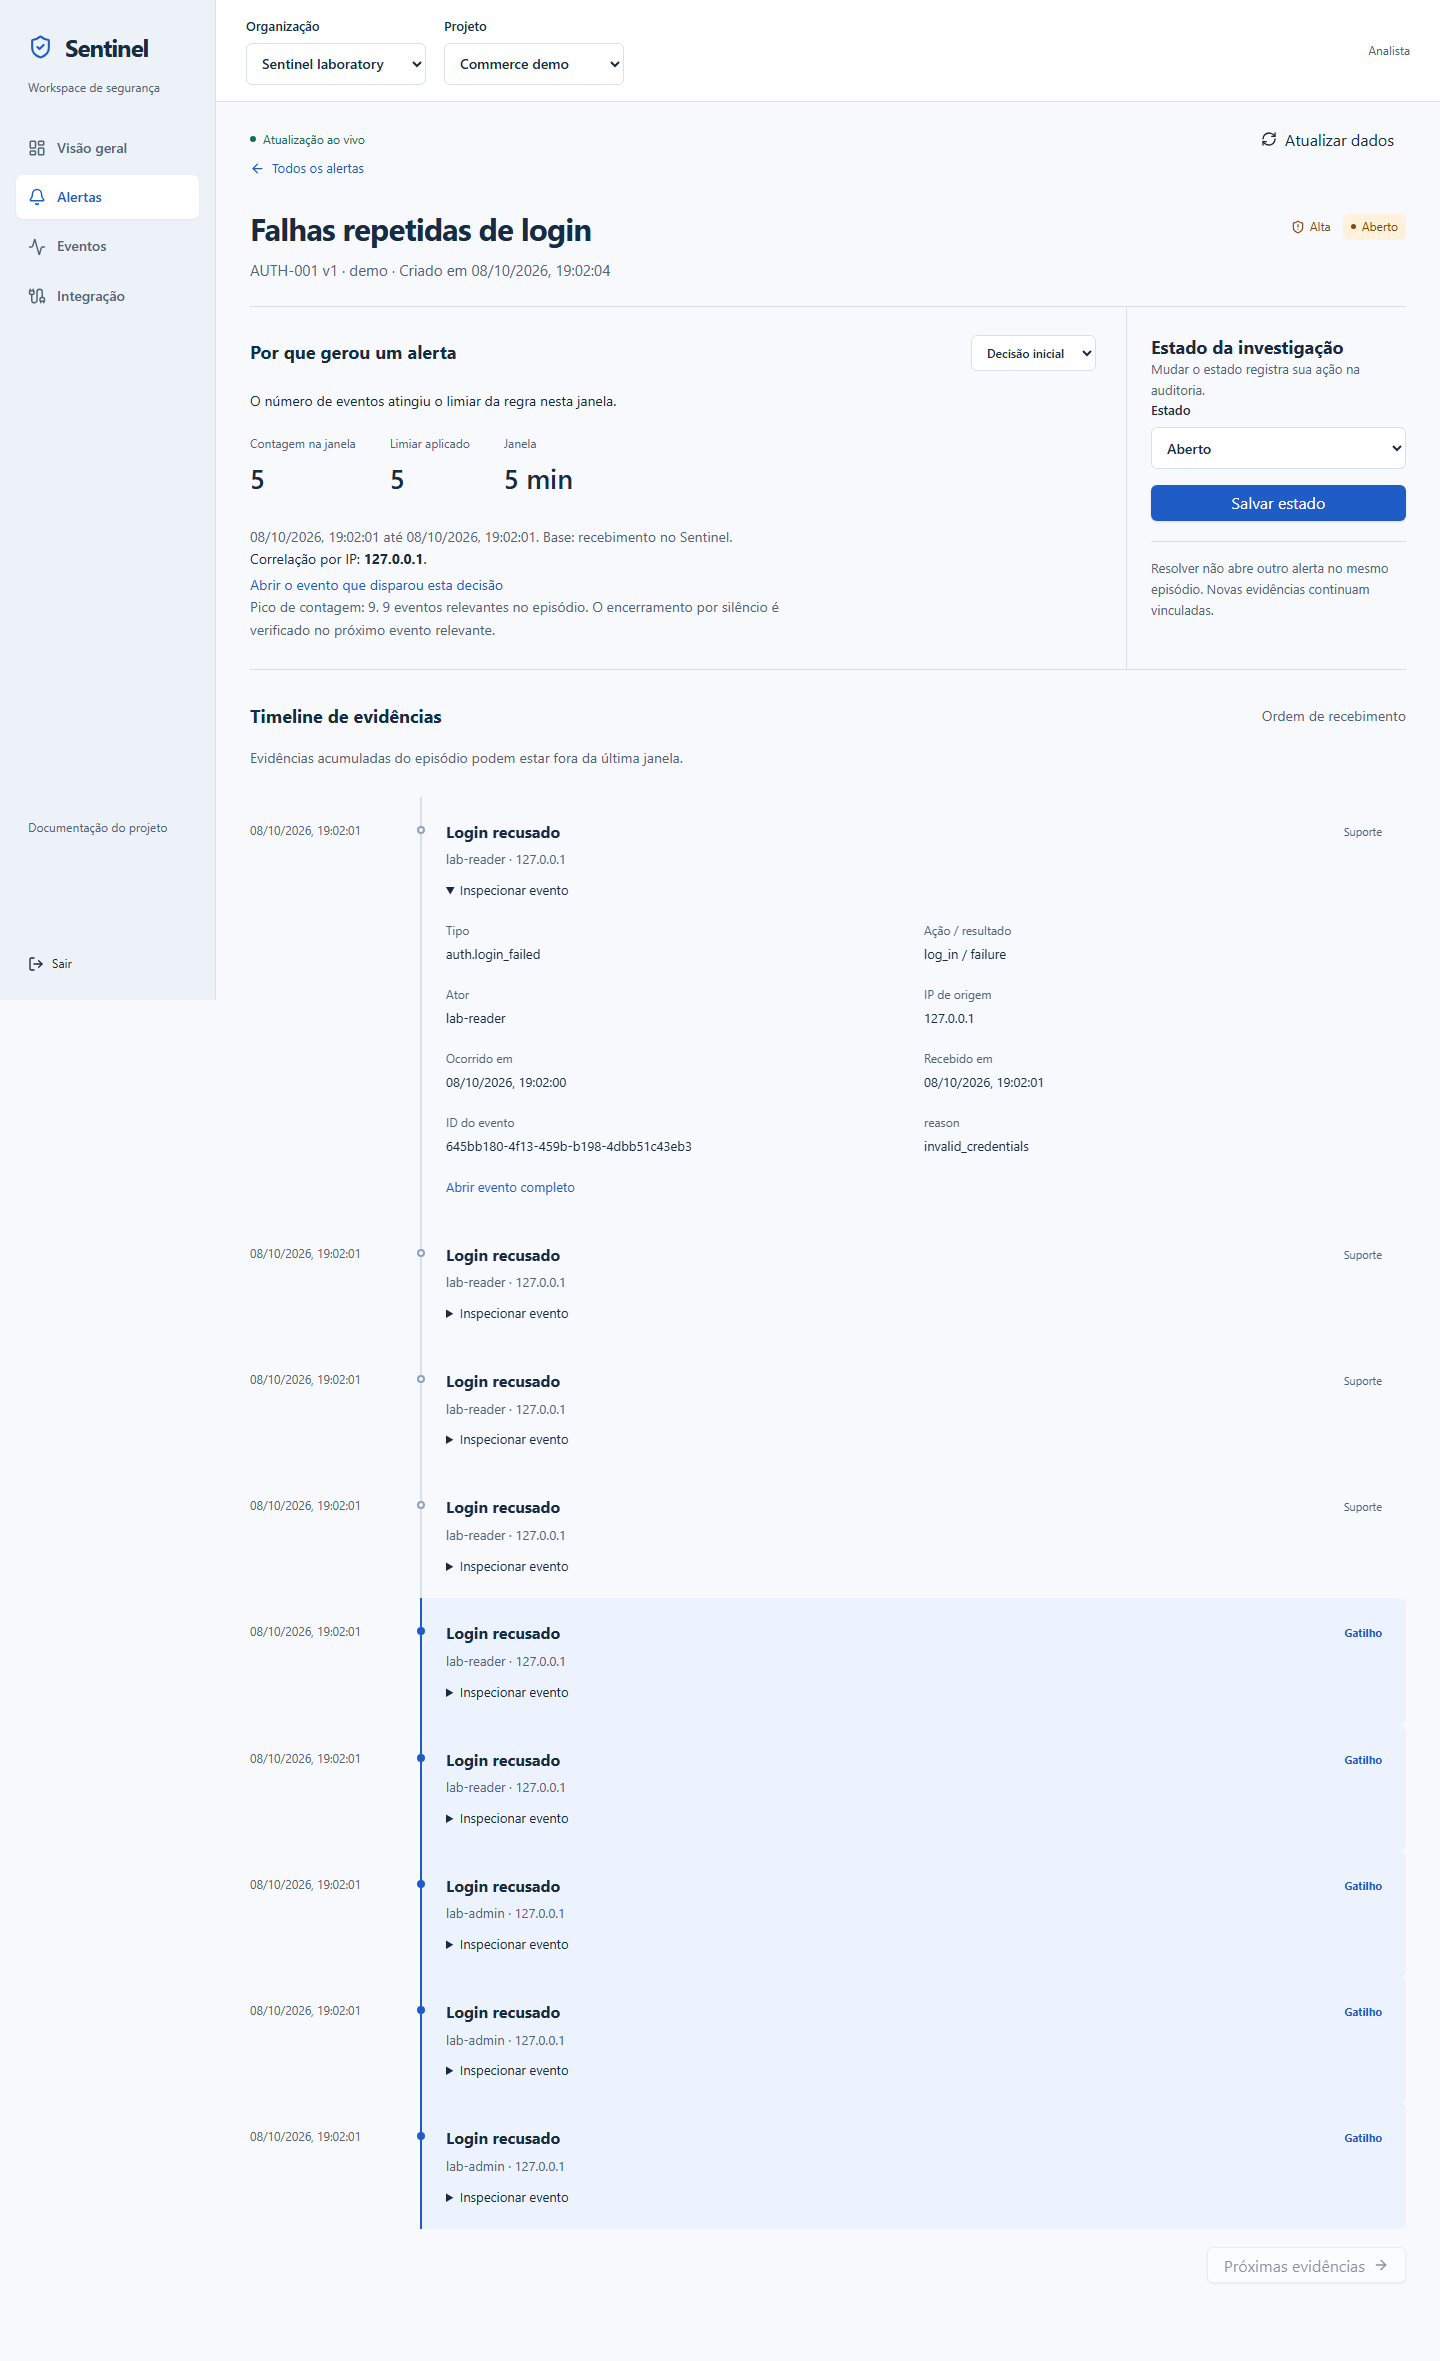
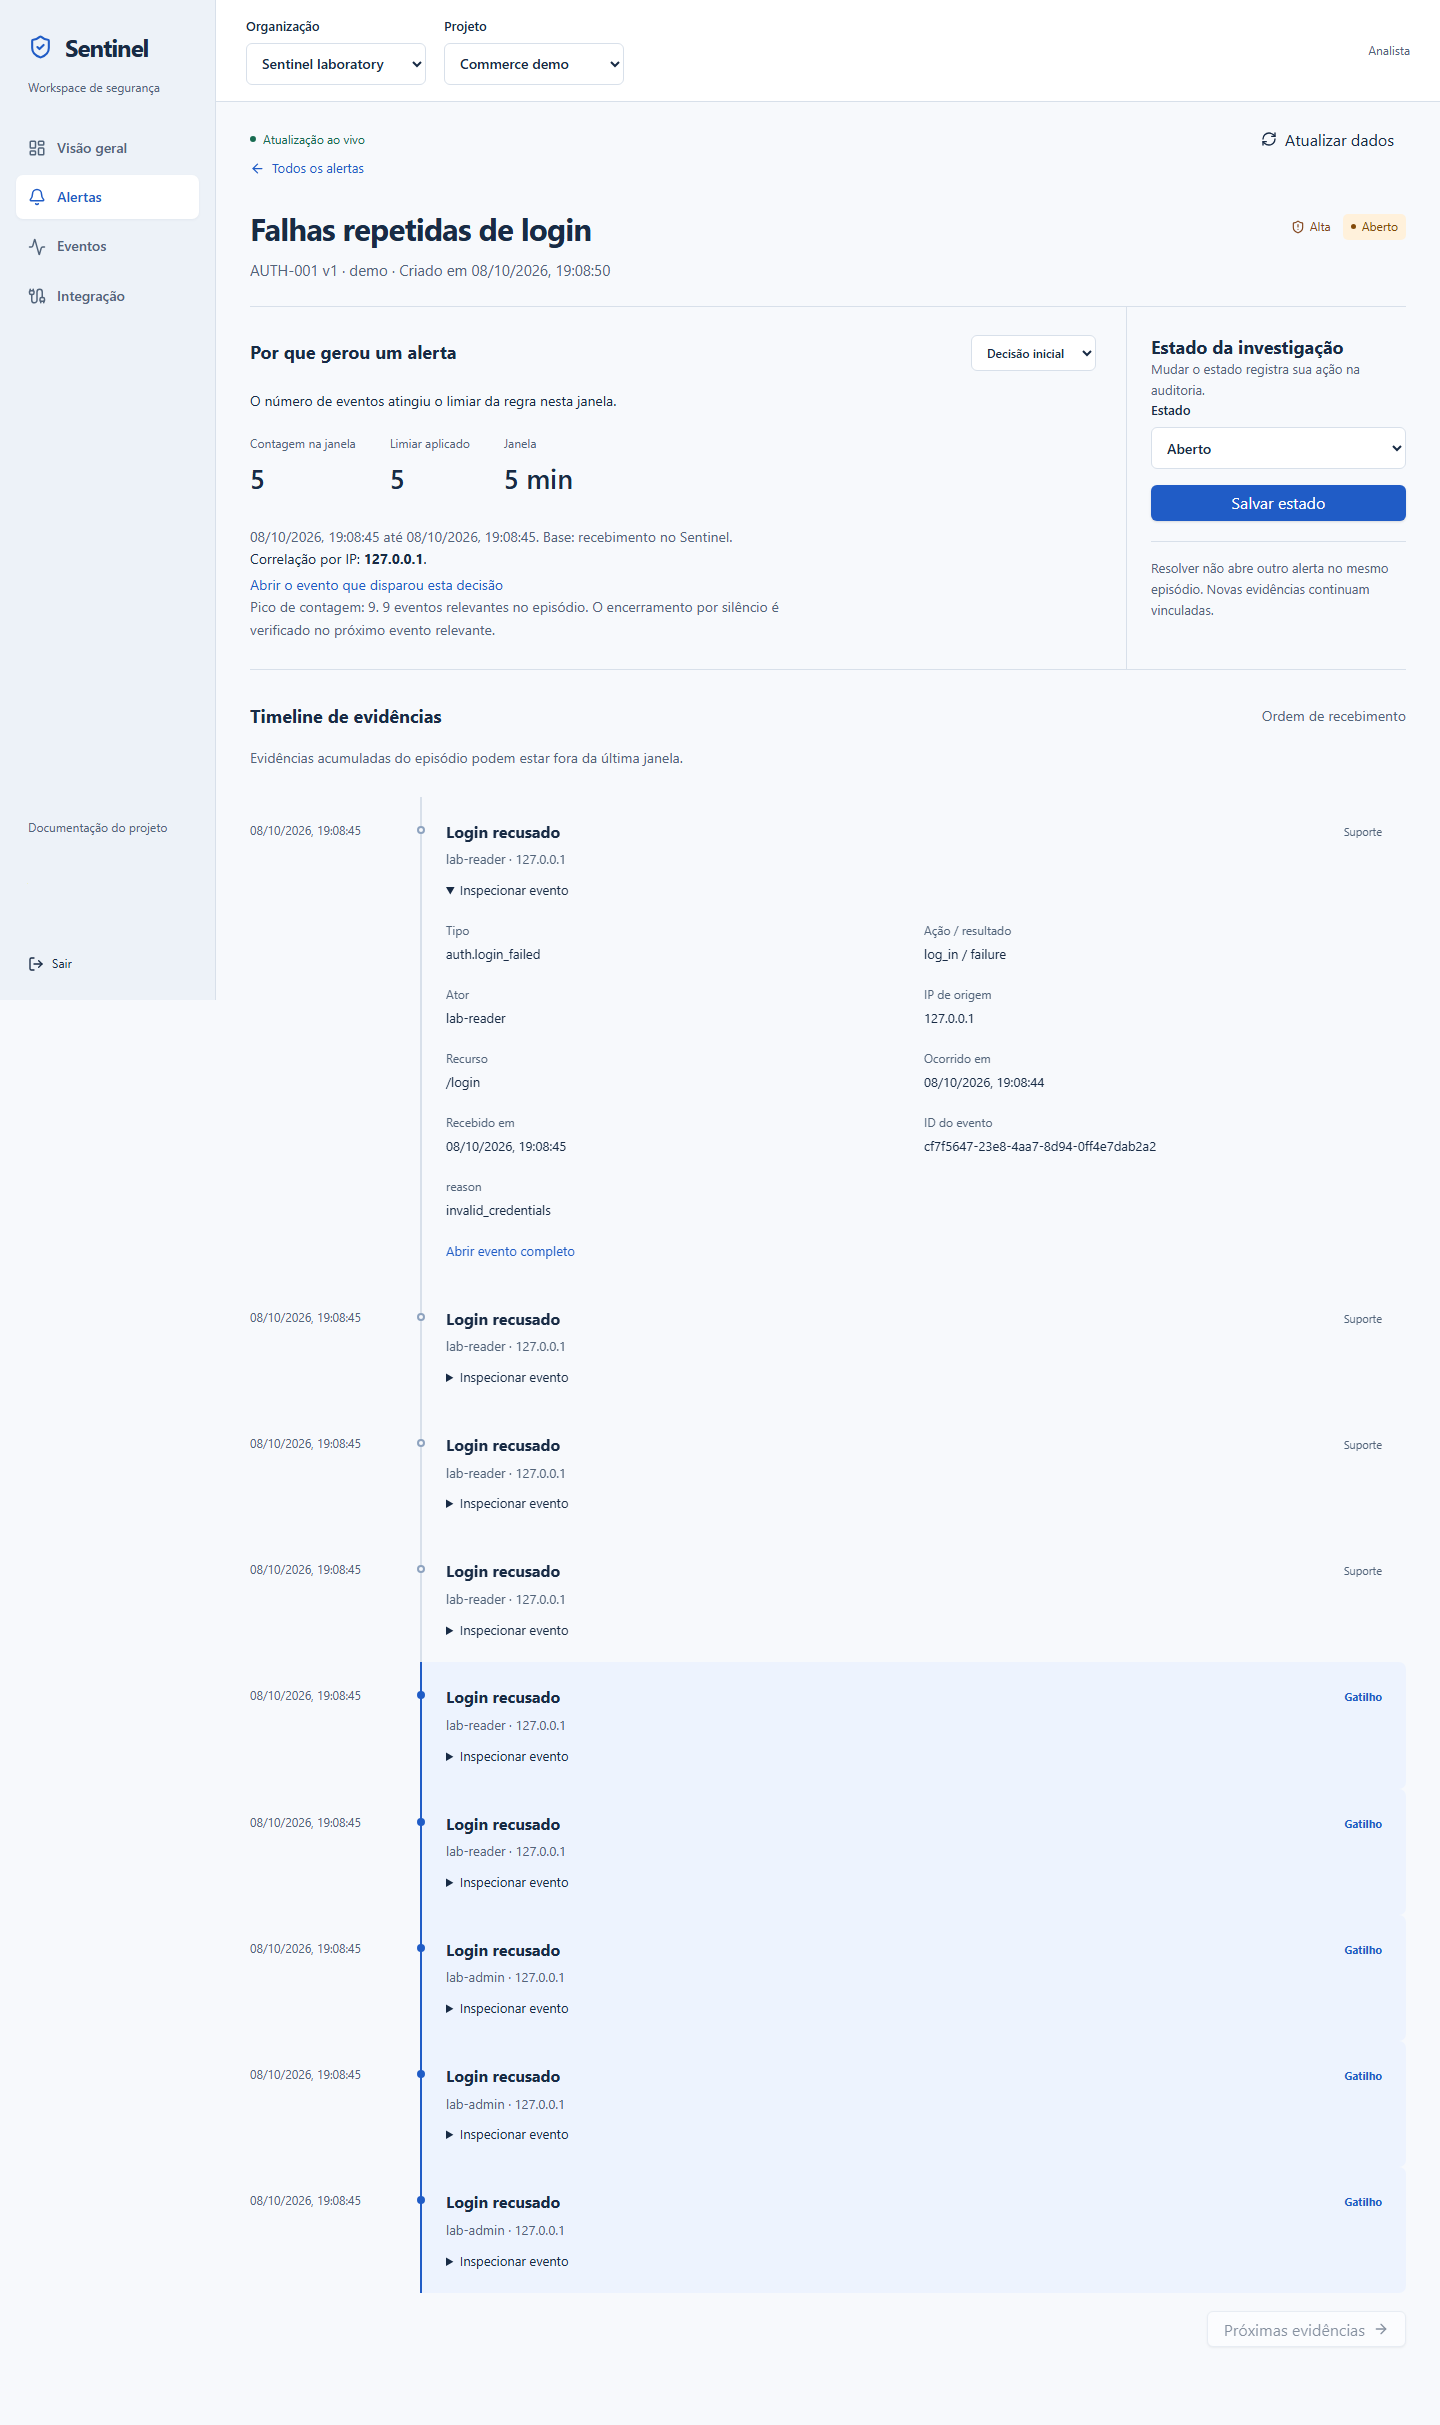
fix(web): expose monitored resource and actor context in evidence

diff --git a/apps/web/components/investigation.tsx b/apps/web/components/investigation.tsx
@@ -545,6 +545,24 @@ export function EventBody({ event }: { event: Event }) {
         <dt>IP de origem</dt>
         <dd>{event.payload.source_ip ?? "Não informado"}</dd>
       </div>
+      {event.payload.actor_role && (
+        <div>
+          <dt>Papel na aplicação</dt>
+          <dd>{event.payload.actor_role}</dd>
+        </div>
+      )}
+      {event.payload.resource && (
+        <div>
+          <dt>Recurso</dt>
+          <dd className="break-value">{event.payload.resource}</dd>
+        </div>
+      )}
+      {event.payload.request_id && (
+        <div>
+          <dt>ID da requisição</dt>
+          <dd className="break-value">{event.payload.request_id}</dd>
+        </div>
+      )}
       <div>
         <dt>Ocorrido em</dt>
         <dd>{date(event.payload.occurred_at)}</dd>

diff --git a/apps/web/tests/dashboard.spec.ts b/apps/web/tests/dashboard.spec.ts
@@ -134,6 +134,12 @@ test("events paginate without duplicates; filters persist in URL and show valida
     page.getByRole("heading", { name: "Acesso negado", exact: true }),
   ).toBeVisible();
   await expect(page.getByText("ID do evento", { exact: true })).toBeVisible();
+  await expect(
+    page.getByText("/admin/settings", { exact: true }),
+  ).toBeVisible();
+  await expect(
+    page.getByText("Papel na aplicação", { exact: true }),
+  ).toBeVisible();
 });
 
 test("analyst investigates real evidence, changes status and receives conflict feedback", async ({

diff --git a/apps/web/lib/models.ts b/apps/web/lib/models.ts
@@ -18,6 +18,8 @@ export type Event = {
     action: string;
     outcome: string;
     actor_id?: string;
+    actor_role?: "user" | "admin" | "service";
+    request_id?: string;
     source_ip?: string;
     resource?: string;
     metadata: Record<string, string>;
